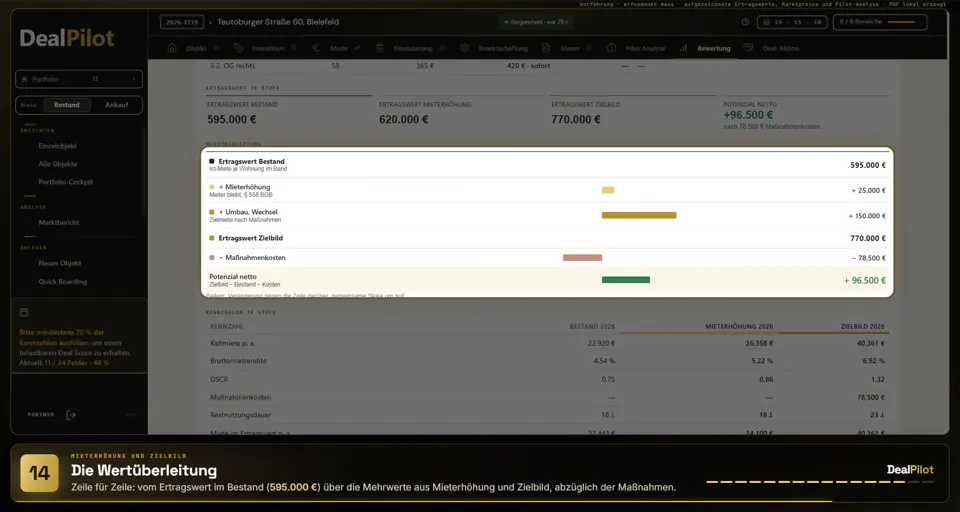
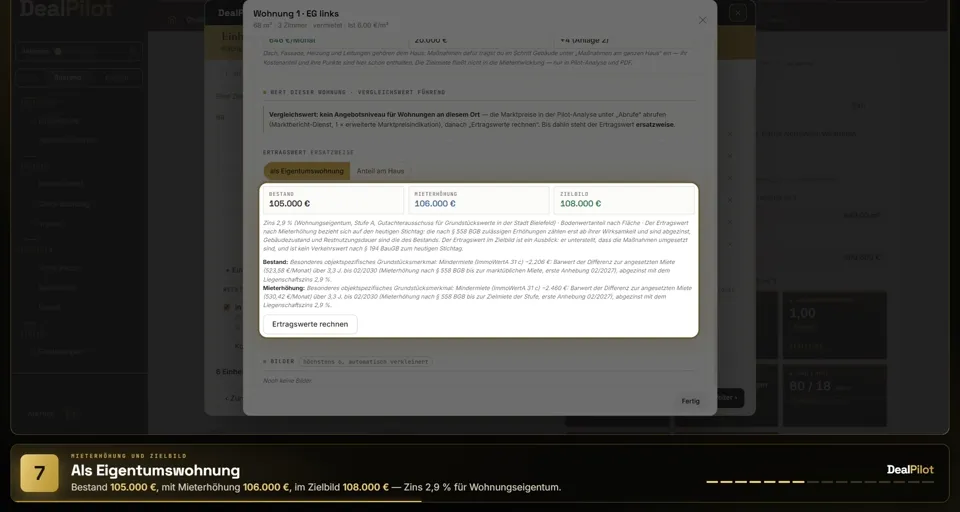
v3291: Videothek Modul 26 auf die Aufnahme v3288b (N145, landing-videothek-9)
Dauer 861 s, 16 Kapitel aus der Aufnahme (Stichworte aus texte.json, ohne
Strassen/Orte), neues Vorschaubild, Ton = Marcels Stimme (_landing).
Medien-/Poster-Buster v3291, register-stand.js und videothek-liste.js neu.

diff --git a/frontend/messe-schleife/videothek-liste.js b/frontend/messe-schleife/videothek-liste.js
@@ -1,4 +1,4 @@
-/* messe-schleife-daten.mjs · erzeugt 2026-11-11T07:14:43.019Z — NICHT von Hand ändern.
+/* messe-schleife-daten.mjs · erzeugt 2026-11-11T08:38:29.366Z — NICHT von Hand ändern.
    Neu erzeugen: node tools/messe-schleife-daten.mjs */
 window.DPS_VIDEOTHEK = {
  "stand": "2026-11-11",
@@ -1569,87 +1569,71 @@ window.DPS_VIDEOTHEK = {
    "titel": "Mieterhöhung und Zielbild",
    "unterzeile": "Ein Mehrfamilienhaus, Wohnung für Wohnung — Ist, Soll und Zielbild bis zum Wertpotenzial.",
    "datei": "dealpilot-modul-26-mieterhoehung-und-zielbild.mp4",
-   "dauer": 945,
+   "dauer": 861,
    "kapitel": [
     {
      "t": 0,
      "titel": "Einstieg"
     },
     {
-     "t": 27,
-     "titel": "Einheiten erfassen"
+     "t": 13,
+     "titel": "Das Beispiel"
     },
     {
-     "t": 41,
-     "titel": "Das Haus"
+     "t": 42,
+     "titel": "Schritt 1 · Das Haus"
     },
     {
-     "t": 54,
-     "titel": "In Wohnungseigentum aufgeteilt"
+     "t": 80,
+     "titel": "Schritt 2 · Die Wohnungen"
     },
     {
-     "t": 69,
-     "titel": "Jahr des Zielbilds"
+     "t": 131,
+     "titel": "Wohnung 1 · Der Mietvertrag"
     },
     {
-     "t": 93,
-     "titel": "Die Wohnungen"
+     "t": 157,
+     "titel": "Wohnung 1 · Soll-Miete"
     },
     {
-     "t": 128,
-     "titel": "Mietvertrag und Kappung"
+     "t": 219,
+     "titel": "Wohnung 1 · Zielbild"
     },
     {
-     "t": 190,
-     "titel": "Die Soll-Miete"
+     "t": 261,
+     "titel": "Ertragswert dieser Wohnung"
     },
     {
-     "t": 210,
-     "titel": "Das Zielbild"
+     "t": 302,
+     "titel": "Wohnung 2"
     },
     {
-     "t": 252,
-     "titel": "Ertragswert je Wohnung"
-    },
-    {
-     "t": 293,
-     "titel": "Wohnung zwei"
-    },
-    {
-     "t": 337,
+     "t": 347,
      "titel": "Die übrigen Wohnungen"
     },
     {
-     "t": 414,
-     "titel": "Übernehmen"
+     "t": 395,
+     "titel": "Schritt 4 · Ergebnis und Übernehmen"
     },
     {
-     "t": 450,
-     "titel": "Mietentwicklung aus Wohnungen"
+     "t": 463,
+     "titel": "Tab Miete · Mietentwicklung"
     },
     {
-     "t": 547,
-     "titel": "Pilot-Analyse: Ankauf, Bestand, Zielbild"
+     "t": 560,
+     "titel": "Pilot-Analyse"
     },
     {
-     "t": 618,
-     "titel": "Marktpreisindikation als Gegenprobe"
+     "t": 704,
+     "titel": "Tab Bewertung"
     },
     {
-     "t": 654,
-     "titel": "Lohnt sich eine Aufteilung?"
+     "t": 765,
+     "titel": "Das Bank-PDF"
     },
     {
-     "t": 682,
-     "titel": "Marktpreise am Ort"
-    },
-    {
-     "t": 787,
-     "titel": "Die Wertüberleitung"
-    },
-    {
-     "t": 848,
-     "titel": "Die Seite im Bank-PDF"
+     "t": 832,
+     "titel": "Ist, Soll, Zielbild"
     }
    ]
   },

diff --git a/frontend/landing/dp2-live.js b/frontend/landing/dp2-live.js
@@ -21,14 +21,14 @@
    ═══════════════════════════════════════════════════════════════════════ */
 (function () {
   'use strict';
-  var QUELLE = 'assets/videothek/videos.json?v=landing-videothek-8';   /* landing-videothek-8: 20 Videos neu (N145, v3285); landing-videothek-7: Ue3, Modul 28 */
+  var QUELLE = 'assets/videothek/videos.json?v=landing-videothek-9';   /* landing-videothek-9: Modul 26 neu (v3291); landing-videothek-8: 20 Videos neu (N145, v3285); landing-videothek-7: Ue3, Modul 28 */
   /* landing-videothek-4 · Jedes Video gibt es mit und ohne Sprecher (Marcel 19.10.2026:
      „die Videos muss es vertont und unvertont geben"). videos.json traegt je Eintrag
      `datei_ton`; die Wahl merkt sich der Browser, Standard: mit Sprecher. */
   var TON = true;
   try { TON = localStorage.getItem('dp_vt_ton') !== '0'; } catch (e) {}
-  function datei(v) { return ((TON && v && v.datei_ton) ? v.datei_ton : v.datei) + '?v=v3285'; }   /* v3285 · Videothek auf die Aufnahmen vom 09.–11.11.2026 (N145): neu laden statt aus dem Cache; v2967 · neue Stimme */
-  function bildUrl(v, D) { return D.basis_bilder + v.poster + '?v=v3285'; }   /* v3285 · 20 Vorschaubilder aus den neuen Aufnahmen; v2968 · Modul 14/18 */
+  function datei(v) { return ((TON && v && v.datei_ton) ? v.datei_ton : v.datei) + '?v=v3291'; }   /* v3291 · Modul 26 neu; v3285 · Videothek auf die Aufnahmen vom 09.–11.11.2026 (N145): neu laden statt aus dem Cache; v2967 · neue Stimme */
+  function bildUrl(v, D) { return D.basis_bilder + v.poster + '?v=v3291'; }   /* v3291 · Modul 26; v3285 · 20 Vorschaubilder aus den neuen Aufnahmen; v2968 · Modul 14/18 */
   function tonText() { return TON ? 'Mit Sprecher ✓' : 'Ohne Sprecher'; }
   var ruhig = matchMedia('(prefers-reduced-motion: reduce)').matches;
   var PLAY = '<svg viewBox="0 0 24 24" aria-hidden="true"><path d="M7 4.5v15l13-7.5z"/></svg>';

diff --git a/frontend/messe-schleife.html b/frontend/messe-schleife.html
@@ -34,9 +34,9 @@ window.DPS_FEHLER=[];addEventListener('error',function(e){DPS_FEHLER.push(e.mess
 <script src="messe-schleife/gewinnspiel.js?v=messe-schleife-5"></script>
 <!-- messe-schleife-6 (v2937): Menue am Stand (Taste E) und Tafel „DealPilot in Zahlen" (app-zahlen.js aus tools/messe-app-zahlen.mjs) -->
 <script src="messe-schleife/einstellungen.js?v=messe-schleife-9"></script>
-<script src="messe-schleife/register-stand.js?v=v3285"></script>
+<script src="messe-schleife/register-stand.js?v=v3291"></script>
 <script src="messe-schleife/app-zahlen.js?v=messe-schleife-6b"></script>
-<script src="messe-schleife/videothek-liste.js?v=v3285"></script>
+<script src="messe-schleife/videothek-liste.js?v=v3291"></script>
 <script src="messe-schleife/tafeln.js?v=messe-schleife-7"></script>
 <!-- messe-schleife-7: Werbebilder (werbung/*.webp) - Tafel zwischendurch und Kanal ?idee=werbung (Taste W); NACH tafeln.js -->
 <script src="messe-schleife/werbung.js?v=messe-schleife-10"></script>

diff --git a/frontend/landing/index.html b/frontend/landing/index.html
@@ -737,7 +737,7 @@ if (location.hash === '#makler-hub') location.replace('loesungen.html#makler-hub
 <script src="dp2-video.js?v=v1570"></script>
 <script src="demo-steuer-daten.js?v=v1600"></script>
 <script src="dp2.js?v=landing-zahlen-2"></script>
-<script src="dp2-live.js?v=landing-videothek-8"></script><!-- landing-videothek-1 -->
+<script src="dp2-live.js?v=landing-videothek-9"></script><!-- landing-videothek-1 -->
 <!-- v1588: Zwei Funktionen, die der alten Landing schon gehoerten und
      hier gefehlt haben. Beide betreffen Geld, deshalb standen sie ganz
      oben auf der Abgleichsliste:

diff --git a/frontend/landing/register-stand.js b/frontend/landing/register-stand.js
@@ -1,8 +1,8 @@
-/* messe-schleife-daten.mjs · erzeugt 2026-11-11T07:14:43.019Z — NICHT von Hand ändern.
+/* messe-schleife-daten.mjs · erzeugt 2026-11-11T08:38:29.366Z — NICHT von Hand ändern.
    Neu erzeugen: node tools/messe-schleife-daten.mjs */
 window.DPS_REGISTER = {
  "stand": "2026-11-11",
- "erzeugt": "2026-11-11T07:14:43.019Z",
+ "erzeugt": "2026-11-11T08:38:29.366Z",
  "register_commit": "509d481b",
  "register_lokal_geaendert": false,
  "quelle": "registerDeckung() · lib/register_deckung.js, ohne Datenbank (wie Admin „Register & Ernte\")",

diff --git a/frontend/messe-schleife/register-stand.js b/frontend/messe-schleife/register-stand.js
@@ -1,8 +1,8 @@
-/* messe-schleife-daten.mjs · erzeugt 2026-11-11T07:14:43.019Z — NICHT von Hand ändern.
+/* messe-schleife-daten.mjs · erzeugt 2026-11-11T08:38:29.366Z — NICHT von Hand ändern.
    Neu erzeugen: node tools/messe-schleife-daten.mjs */
 window.DPS_REGISTER = {
  "stand": "2026-11-11",
- "erzeugt": "2026-11-11T07:14:43.019Z",
+ "erzeugt": "2026-11-11T08:38:29.366Z",
  "register_commit": "509d481b",
  "register_lokal_geaendert": false,
  "quelle": "registerDeckung() · lib/register_deckung.js, ohne Datenbank (wie Admin „Register & Ernte\")",

diff --git a/frontend/landing/videothek.html b/frontend/landing/videothek.html
@@ -127,6 +127,6 @@
 
 
 <script src="dp2.js?v=landing-zahlen-2"></script>
-<script src="dp2-live.js?v=landing-videothek-8"></script>
+<script src="dp2-live.js?v=landing-videothek-9"></script>
   <script src="assets/umgebung.js?v=v1644"></script><!-- v1644 · Landing zeigt auf DIE App, in der sie steht -->
 </body></html>
